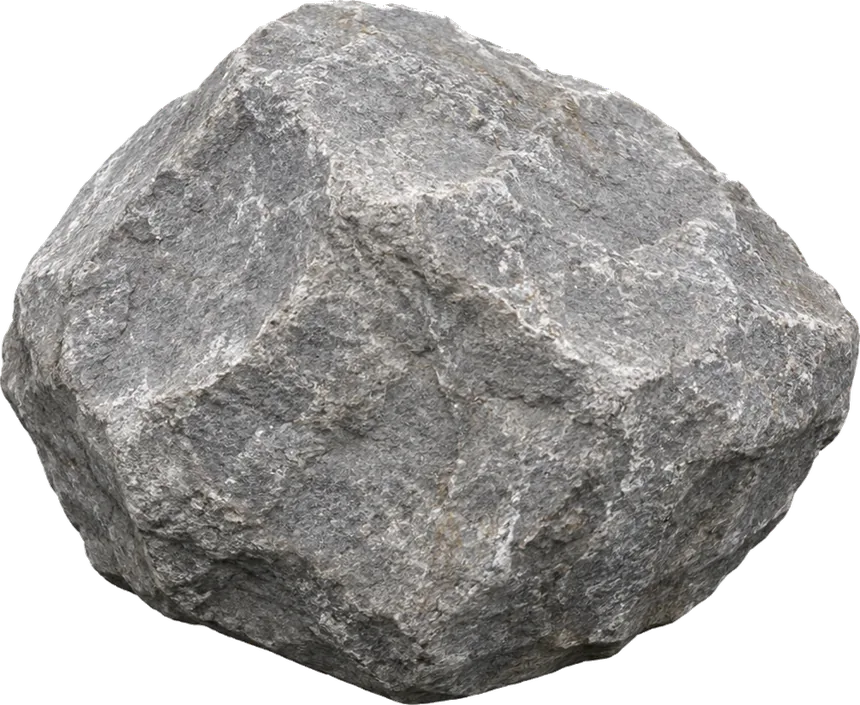
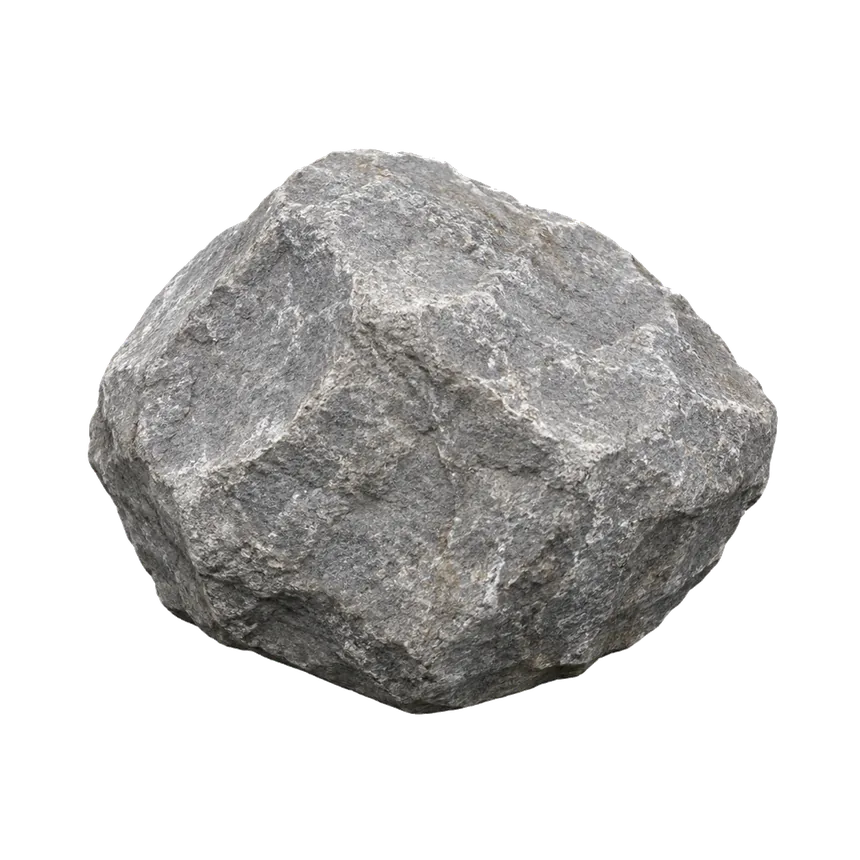
Add landscape-first mobile design and fix onboarding dead ends
- Portrait phones now see a rotate-to-landscape guard; landscape
  layouts (max-height 560px) keep stage worlds, spell panels, and
  pickers fully on screen with no hidden scrolling.
- Stage 1 no longer starts as a bare background: the spell input
  panel is visible on entry, and closing every window leaves a
  persistent reopen button instead of a dead end.
- The falling rock now lands exactly where the cleared-background
  rock sits (position computed from the displayed image box) and
  uses the untrimmed transparent WebP so the authored animation
  geometry holds.

diff --git a/tanohama/styles.css b/tanohama/styles.css
@@ -6725,3 +6725,210 @@ body.stage-path-mode .path-stage-background-only .stage-bg-art {
 .boss-butterfly {
   margin-left: 8px;
 }
+
+/* ===== 横持ち(ランドスケープ)対応 ===== */
+
+/* 縦持ちのスマホには回転を促す(タッチ端末のみ) */
+.rotate-guard {
+  display: none;
+}
+
+@media (orientation: portrait) and (max-width: 840px) and (pointer: coarse) {
+  .rotate-guard {
+    position: fixed;
+    inset: 0;
+    z-index: 9999;
+    display: grid;
+    place-items: center;
+    padding: 24px;
+    background: #02050a;
+    text-align: center;
+  }
+
+  .rotate-guard-inner {
+    display: grid;
+    gap: 14px;
+    justify-items: center;
+  }
+
+  .rotate-guard .rotate-icon {
+    font-size: 58px;
+    animation: rotateHint 1.8s ease-in-out infinite;
+  }
+
+  .rotate-guard strong {
+    color: #ffe879;
+    font-size: 20px;
+    font-weight: 950;
+  }
+
+  .rotate-guard p {
+    margin: 0;
+    color: #dce9f4;
+    font-size: 14px;
+    line-height: 1.8;
+  }
+}
+
+@keyframes rotateHint {
+  0%, 18% { transform: rotate(0deg); }
+  55%, 100% { transform: rotate(90deg); }
+}
+
+/* 横持ちスマホ(高さの低い画面)向けの調整 */
+@media (orientation: landscape) and (max-height: 560px) {
+  :root {
+    --mobile-nav-h: 48px;
+  }
+
+  /* パネルは必ず画面内に収め、あふれた分は内部スクロール */
+  .spell-device {
+    max-height: calc(100dvh - var(--mobile-nav-h, 0px) - 20px) !important;
+    overflow: auto;
+    -webkit-overflow-scrolling: touch;
+    padding: 10px;
+    gap: 8px;
+  }
+
+  .spell-device.has-picker {
+    max-height: calc(100dvh - var(--mobile-nav-h, 0px) - 20px) !important;
+  }
+
+  .spell-open-screen .open-screen-art {
+    display: block;
+    width: auto;
+    max-width: 100%;
+    max-height: 24dvh;
+    margin: 0 auto;
+    object-fit: contain;
+  }
+
+  .magic-slots .premium-slot {
+    min-height: 44px;
+    font-size: 22px;
+  }
+
+  .spell-device .cast-button,
+  .cast-button {
+    min-height: 44px;
+  }
+
+  .slot-choice-button {
+    min-height: 36px;
+    font-size: 18px;
+  }
+
+  .learned-spell-toolbar {
+    margin-top: 0;
+    margin-right: 0;
+  }
+
+  .gate-clear-actions .primary-button {
+    min-height: 46px;
+    font-size: 17px;
+  }
+
+  /* 導入画像は画面内に収める */
+  .intro-opening-image {
+    width: auto;
+    max-width: 100%;
+    max-height: calc(100dvh - 96px);
+    object-fit: contain;
+  }
+
+  /* 問題ウィンドウは常に全体表示(横なら十分読める) */
+  .gate-problem-card .problem-art-shell {
+    width: 100% !important;
+    min-width: 0 !important;
+    max-width: 100% !important;
+  }
+
+  .gate-problem-card .problem-art-image-crop,
+  .gate-problem-card .kana-board {
+    width: 100% !important;
+    min-width: 0 !important;
+    max-width: 100% !important;
+    height: auto !important;
+    margin: 0 !important;
+    transform: none !important;
+  }
+
+  .kana-glyph {
+    min-width: 0;
+    min-height: 26px;
+    font-size: clamp(12px, 2.6vw, 22px);
+  }
+
+  .mobile-problem-fit-toggle {
+    display: none !important;
+  }
+
+  .spell-device.is-problem-mode .source-problem-card,
+  .gate-problem-card {
+    overflow: auto !important;
+    overscroll-behavior: contain;
+  }
+
+  /* 問題ウィンドウから呪文入力へ戻るボタンを常設 */
+  .mobile-problem-spell-button {
+    position: fixed;
+    z-index: 31;
+    right: 12px;
+    bottom: 12px;
+    display: inline-flex;
+    align-items: center;
+    justify-content: center;
+    min-height: 42px;
+    padding: 0 18px;
+    border: 1px solid rgba(255, 237, 142, 0.92);
+    border-radius: 999px;
+    background:
+      radial-gradient(circle at 50% 0%, rgba(255, 255, 255, 0.42), transparent 68%),
+      linear-gradient(180deg, #fff3a8 0%, #e7bd36 58%, #b98217 100%);
+    color: #130d04;
+    font-size: 15px;
+    font-weight: 950;
+    box-shadow:
+      0 12px 28px rgba(0, 0, 0, 0.42),
+      inset 0 1px 0 rgba(255, 255, 255, 0.62);
+  }
+}
+
+/* ステージ1: パネルを全部閉じた時の復帰ボタン */
+.gate-reopen-spell {
+  position: absolute;
+  z-index: 11;
+  left: 50%;
+  bottom: max(18px, env(safe-area-inset-bottom));
+  transform: translateX(-50%);
+  min-height: 50px;
+  padding: 0 26px;
+}
+
+/* 横持ち: ステージ1・2の舞台を1画面に収める(縦スクロール禁止) */
+@media (orientation: landscape) and (max-height: 560px) {
+  .stage-one-redesign,
+  .path-stage-background-only {
+    min-height: 0 !important;
+    height: 100dvh !important;
+    overflow: hidden;
+  }
+
+  .stage-one-redesign .stage-world,
+  .path-stage-background-only .stage-world,
+  .gate-play-visual {
+    min-height: 0 !important;
+    height: 100dvh !important;
+  }
+
+  body.stage-one-mode .game-card,
+  body.stage-path-mode .game-card,
+  body.stage-intro-mode .game-card {
+    min-height: 0 !important;
+  }
+
+  .intro-stage {
+    min-height: 0;
+    height: 100dvh;
+  }
+}

diff --git a/tanohama/app.js b/tanohama/app.js
@@ -304,14 +304,16 @@ function saveState() {
 }
 
 function forceGateProblemClosedOnStartup() {
+  // 起動時は問題ウィンドウは閉じるが、呪文入力パネルは必ず見える状態にする
   state.hiddenProblems = { ...(state.hiddenProblems || {}), gate: true };
+  state.hiddenSpells = { ...(state.hiddenSpells || {}), gate: false };
   if (state.gatePanelMode === "problem") state.gatePanelMode = "spell";
 }
 
 function hideProblemOnStageEntry(stage) {
   if (stage?.id !== "gate") return;
   state.hiddenProblems = { ...(state.hiddenProblems || {}), [stage.id]: true };
-  state.hiddenSpells = { ...(state.hiddenSpells || {}), [stage.id]: true };
+  state.hiddenSpells = { ...(state.hiddenSpells || {}), [stage.id]: false };
   state.gatePanelMode = "spell";
 }
 
@@ -864,6 +866,8 @@ function renderGateStage(stage) {
           ${renderGateResult(stage, done, feedback)}
         </section>`}
 
+      ${!successAnimating && !done && backgroundOnly ? `<button class="primary-button gate-reopen-spell" id="reopenSpellWindow" type="button">石板をひらく</button>` : ""}
+
       ${successAnimating ? renderGateSuccessOverlay(feedback.phase) : ""}
       ${state.learnedSpellViewerOpen ? renderLearnedSpellViewer() : ""}
 
@@ -1069,6 +1073,7 @@ function renderGateResult(stage, done, feedback) {
 
 function wireGateStage(stage, done) {
   const rockDropping = state.feedback?.stageId === stage.id && state.feedback?.type === "success" && state.feedback?.phase === "rock";
+  if (rockDropping) positionFallingRock();
   const successAnimating = state.feedback?.stageId === stage.id && state.feedback?.type === "success" && state.feedback?.phase !== "done";
   const locked = done || rockDropping || successAnimating;
 
@@ -1083,6 +1088,13 @@ function wireGateStage(stage, done) {
   document.querySelector(".mobile-problem-fit-toggle input")?.addEventListener("change", (event) => {
     state.problemFit = event.target.checked;
     saveState();
+  });
+
+  document.querySelector("#reopenSpellWindow")?.addEventListener("click", () => {
+    state.hiddenSpells = { ...(state.hiddenSpells || {}), [stage.id]: false };
+    state.gatePanelMode = "spell";
+    state.slotPickerOpen = false;
+    render();
   });
 
   document.querySelector("#mobileProblemToSpell")?.addEventListener("click", () => {
@@ -1218,6 +1230,32 @@ function wireGateStage(stage, done) {
     resetStageInput();
     render();
   });
+}
+
+// 落下する岩を、クリア背景に描かれた岩と同じ位置・大きさに着地させる。
+// クリア画像(1672x941)内の岩: 中心(49%, 58%)・幅31%。岩画像は透明余白込みなので幅を割り戻す。
+function positionFallingRock() {
+  const world = document.querySelector(".gate-play-visual");
+  const rock = document.querySelector(".falling-rock");
+  if (!world || !rock) return;
+  const rect = world.getBoundingClientRect();
+  if (!rect.width || !rect.height) return;
+  const clearRatio = 1672 / 941;
+  let w = rect.width;
+  let h = rect.height;
+  let offX = 0;
+  let offY = 0;
+  if (rect.width / rect.height > clearRatio) {
+    w = rect.height * clearRatio;
+    offX = (rect.width - w) / 2;
+  } else {
+    h = rect.width / clearRatio;
+    offY = (rect.height - h) / 2;
+  }
+  rock.style.left = `${offX + w * 0.49}px`;
+  rock.style.top = `${offY + h * 0.58}px`;
+  rock.style.width = `${(w * 0.31) / 0.8}px`;
+  rock.style.maxWidth = "none";
 }
 
 function beginGateDescent(stage) {

diff --git a/tanohama/escape.html b/tanohama/escape.html
@@ -4,9 +4,16 @@
     <meta charset="utf-8" />
     <meta name="viewport" content="width=device-width, initial-scale=1, viewport-fit=cover" />
     <title>田野浜謎解き - 異空間からの脱出</title>
-    <link rel="stylesheet" href="./styles.css?v=20260705-3" />
+    <link rel="stylesheet" href="./styles.css?v=20260705-4" />
   </head>
   <body>
+    <div class="rotate-guard" aria-hidden="true">
+      <div class="rotate-guard-inner">
+        <span class="rotate-icon">📱</span>
+        <strong>スマホを横向きにしてください</strong>
+        <p>このゲームは横持ちでプレイする設計です。<br>端末を横に回転させると始まります。</p>
+      </div>
+    </div>
     <aside class="side-menu" aria-label="左メニュー">
       <button id="menuReset" class="side-menu-button side-menu-command" type="button">リセット</button>
       <button id="menuProblem" class="side-menu-button side-menu-command" type="button">問題</button>
@@ -54,6 +61,6 @@
       <p id="hintBody"></p>
     </dialog>
 
-    <script src="./app.js?v=20260705-3"></script>
+    <script src="./app.js?v=20260705-4"></script>
   </body>
 </html>

diff --git a/tanohama/index.html b/tanohama/index.html
@@ -4,9 +4,16 @@
     <meta charset="utf-8" />
     <meta name="viewport" content="width=device-width, initial-scale=1, viewport-fit=cover" />
     <title>田野浜謎解き - 異空間からの脱出</title>
-    <link rel="stylesheet" href="./styles.css?v=20260705-3" />
+    <link rel="stylesheet" href="./styles.css?v=20260705-4" />
   </head>
   <body>
+    <div class="rotate-guard" aria-hidden="true">
+      <div class="rotate-guard-inner">
+        <span class="rotate-icon">📱</span>
+        <strong>スマホを横向きにしてください</strong>
+        <p>このゲームは横持ちでプレイする設計です。<br>端末を横に回転させると始まります。</p>
+      </div>
+    </div>
     <aside class="side-menu" aria-label="左メニュー">
       <button id="menuReset" class="side-menu-button side-menu-command" type="button">リセット</button>
       <button id="menuProblem" class="side-menu-button side-menu-command" type="button">問題</button>
@@ -54,6 +61,6 @@
       <p id="hintBody"></p>
     </dialog>
 
-    <script src="./app.js?v=20260705-3"></script>
+    <script src="./app.js?v=20260705-4"></script>
   </body>
 </html>